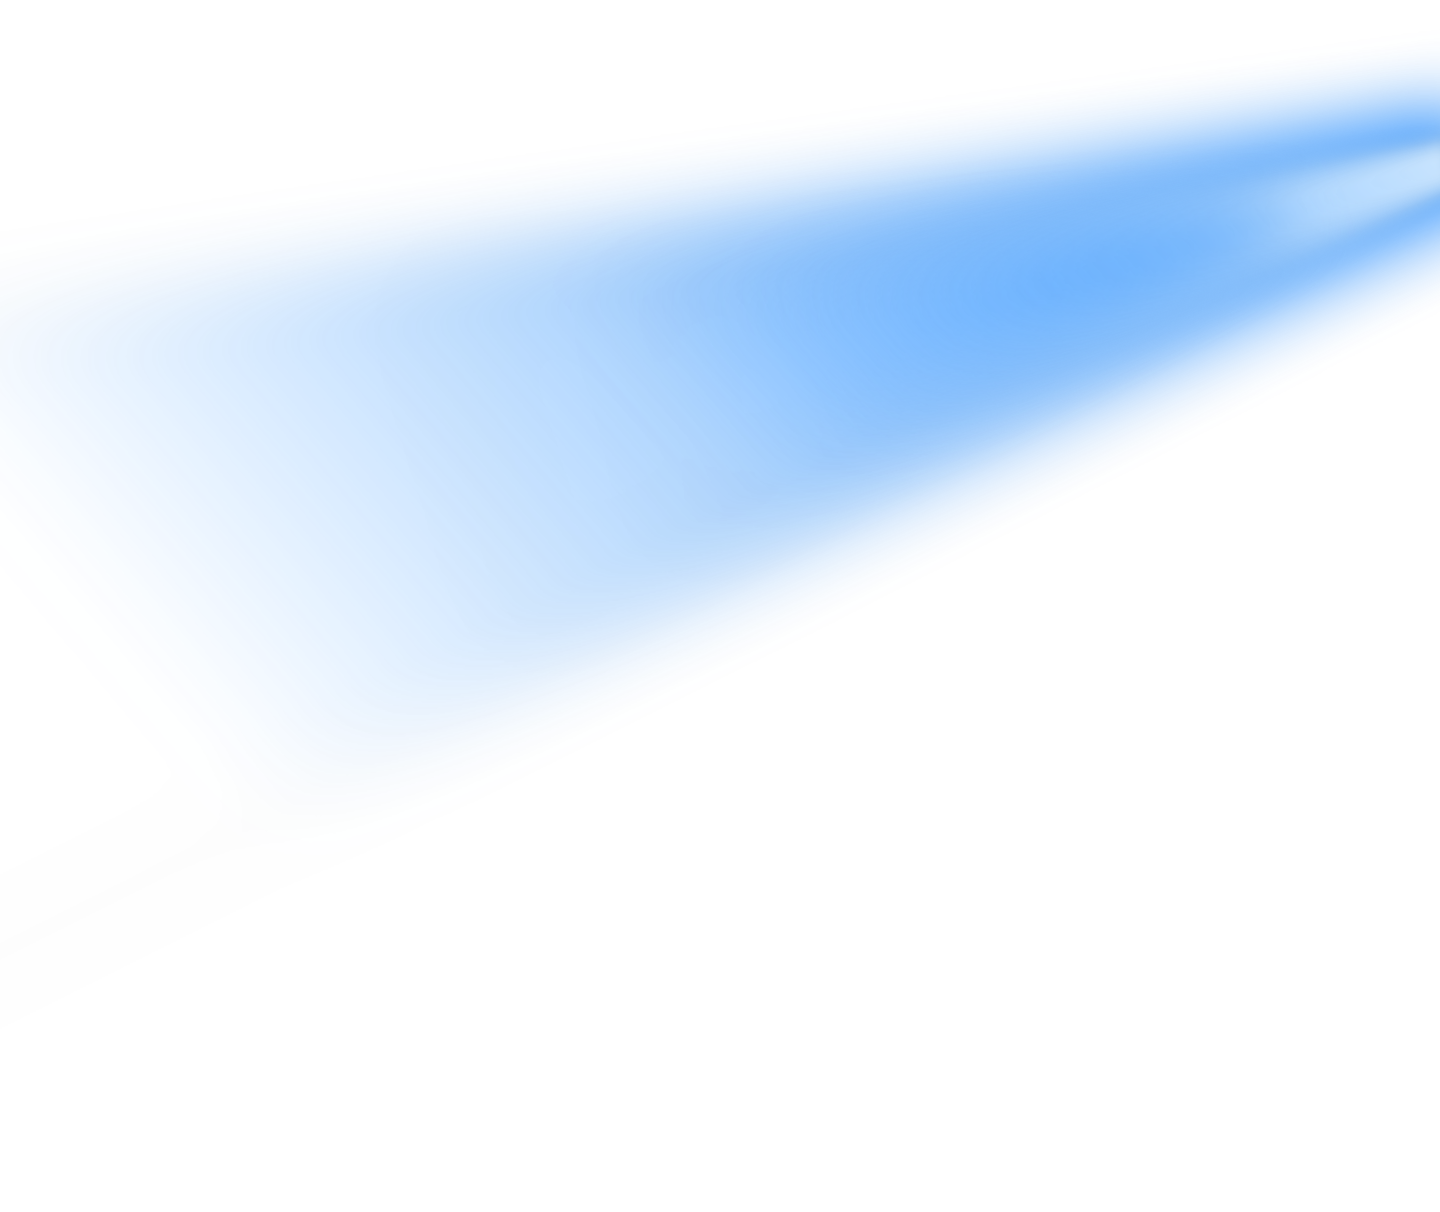
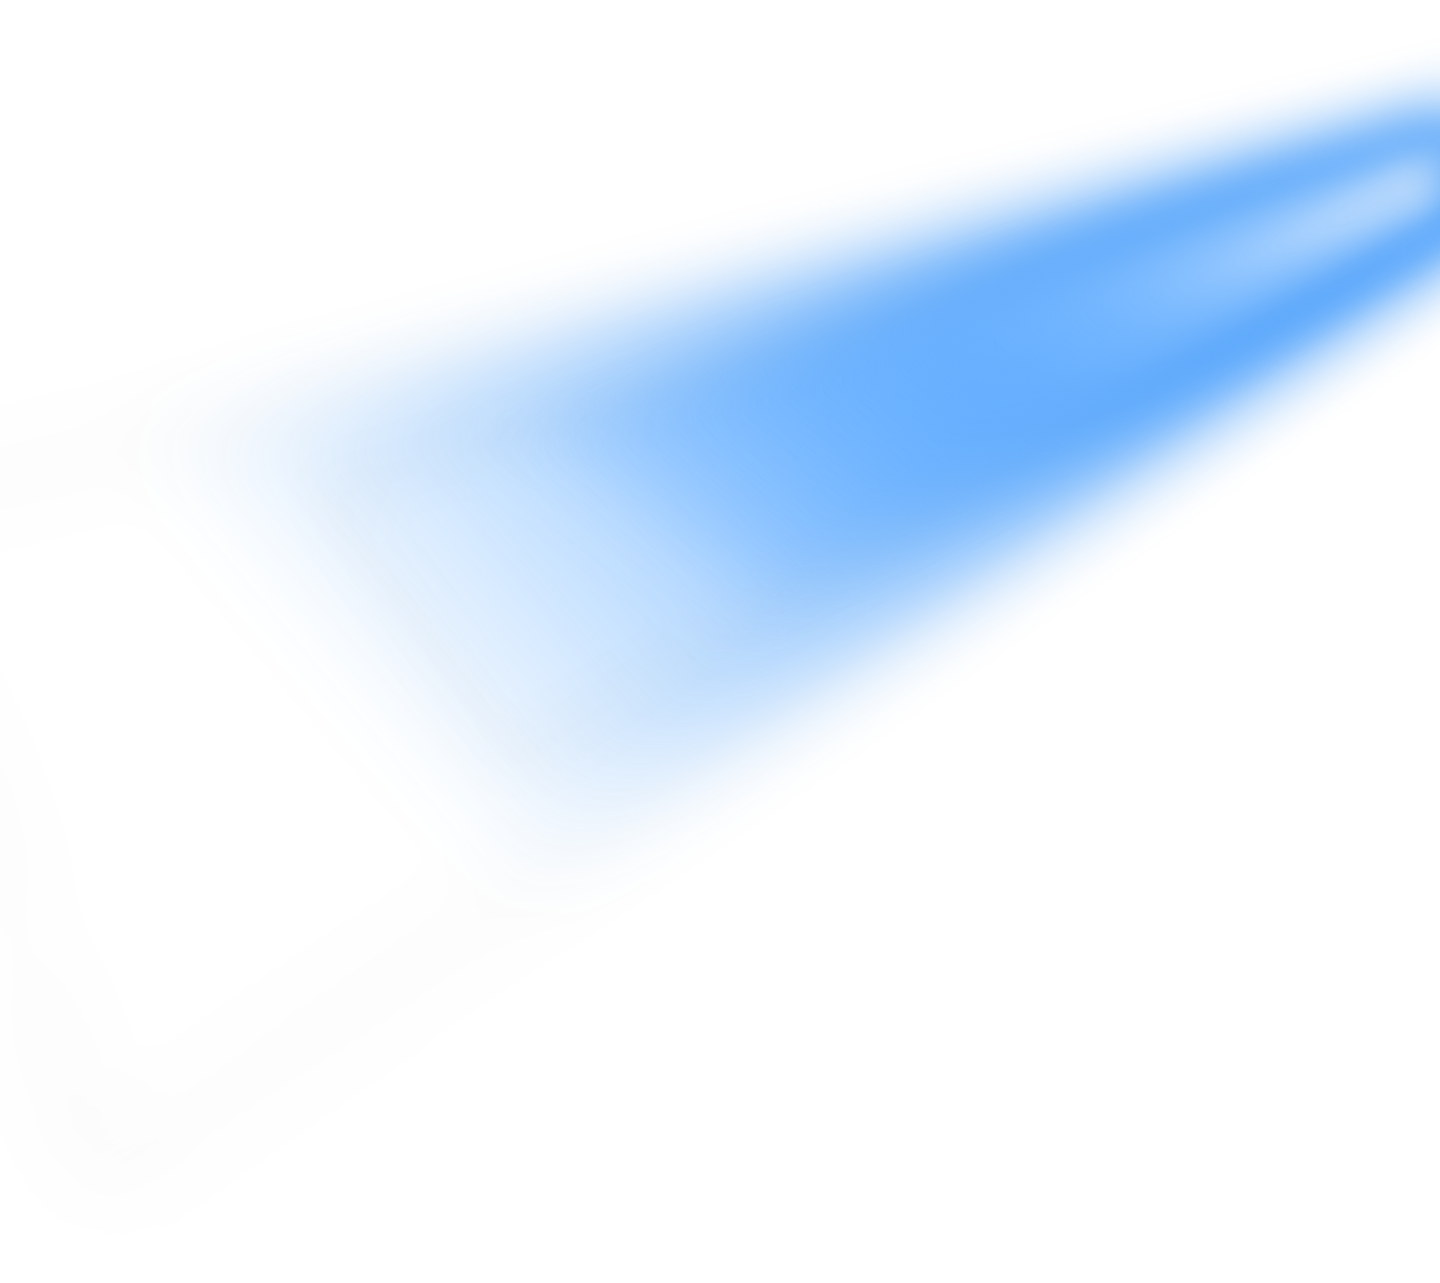
fix: Update aboutsection

Changed region(s): [[0.0938, 0.0916, 1.0, 0.6411]]

diff --git a/src/client/pages/home/sections/about-section/AboutSection.tsx b/src/client/pages/home/sections/about-section/AboutSection.tsx
@@ -1,19 +1,18 @@
-import AboutLogo from "../../../../../assets/logo.png";
+import AboutLogo from "../../../../../assets/logo.svg";
 import glow from "../../../../../assets/glow.png";
+import fb from "../../../../../assets/fb.png";
+import insta from "../../../../../assets/insta.png";
+import Eclipse from "../../../../../assets/ellipse.png";
 
 export const AboutSection = () => {
   return (
-    <div
-      className="relative overflow-hidden"
-      style={{
-        backgroundColor: "#020919",
-      }}
-    >
-      {/* Glow layer */}
-      <img src={glow} alt="glow" className="w-full absolute z-0" />
-\
+    <>
+    {/* Glow layer */}
+      <img src={glow} alt="glow" className="w-full absolute" />
+    <section>
+      
       {/* Content layer */}
-      <div className="relative z-10 flex flex-col md:flex-row items-center gap-8 md:gap-14 md:mx-12 lg:gap-16 xl:gap-20 my-[200px]">
+      <div className="mt-[500px] relative flex flex-col md:flex-row items-center gap-8 md:gap-14 md:mx-12 lg:gap-16 xl:gap-20">
         {/* Mobile Title */}
         <h2 className="block md:hidden text-white font-bold text-[28px]">
           About Us
@@ -26,11 +25,12 @@ export const AboutSection = () => {
             src={AboutLogo}
             alt="About"
           />
+          <img src={Eclipse} alt="glow" className="absolute ml-10" />
         </div>
 
         {/* Content */}
         <div className="w-full md:w-1/2 text-center md:text-left">
-          <h2 className="hidden md:block text-white font-bold text-5xl mb-2 lg:text-3xl md:text-2xl xl:my-8 xl:text-4xl">
+          <h2 className="hidden md:block text-white font-bold text-5xl mb-2 lg:text-3xl md:text-2xl xl:my-8 xl:text-6xl">
             <span className="bg-gradient-to-b from-[#DBF5FF] to-[#007AFF] text-transparent bg-clip-text">
               About
             </span>
@@ -48,9 +48,27 @@ export const AboutSection = () => {
             skills in technology, design, and innovation while fostering
             teamwork, leadership, and real-world problem-solving.
           </p>
+
+          <div className="flex gap-4 mt-6">
+            <a href="https://www.facebook.com/primeitclub" target="_blank" rel="noopener noreferrer">
+              <img
+                src={fb}
+                alt="Facebook"
+                className="w-8 h-8 inline-block cursor-pointer"
+              />
+            </a>
+            <a href="https://www.instagram.com/primeitclub" target="_blank" rel="noopener noreferrer">
+            <img
+              src={insta}
+              alt="Instagram"
+              className="w-8 h-8 inline-block cursor-pointer"
+            />
+            </a>
+          </div>
         </div>
       </div>
-    </div>
+    </section>
+    </>
   );
 };
 export default AboutSection;
